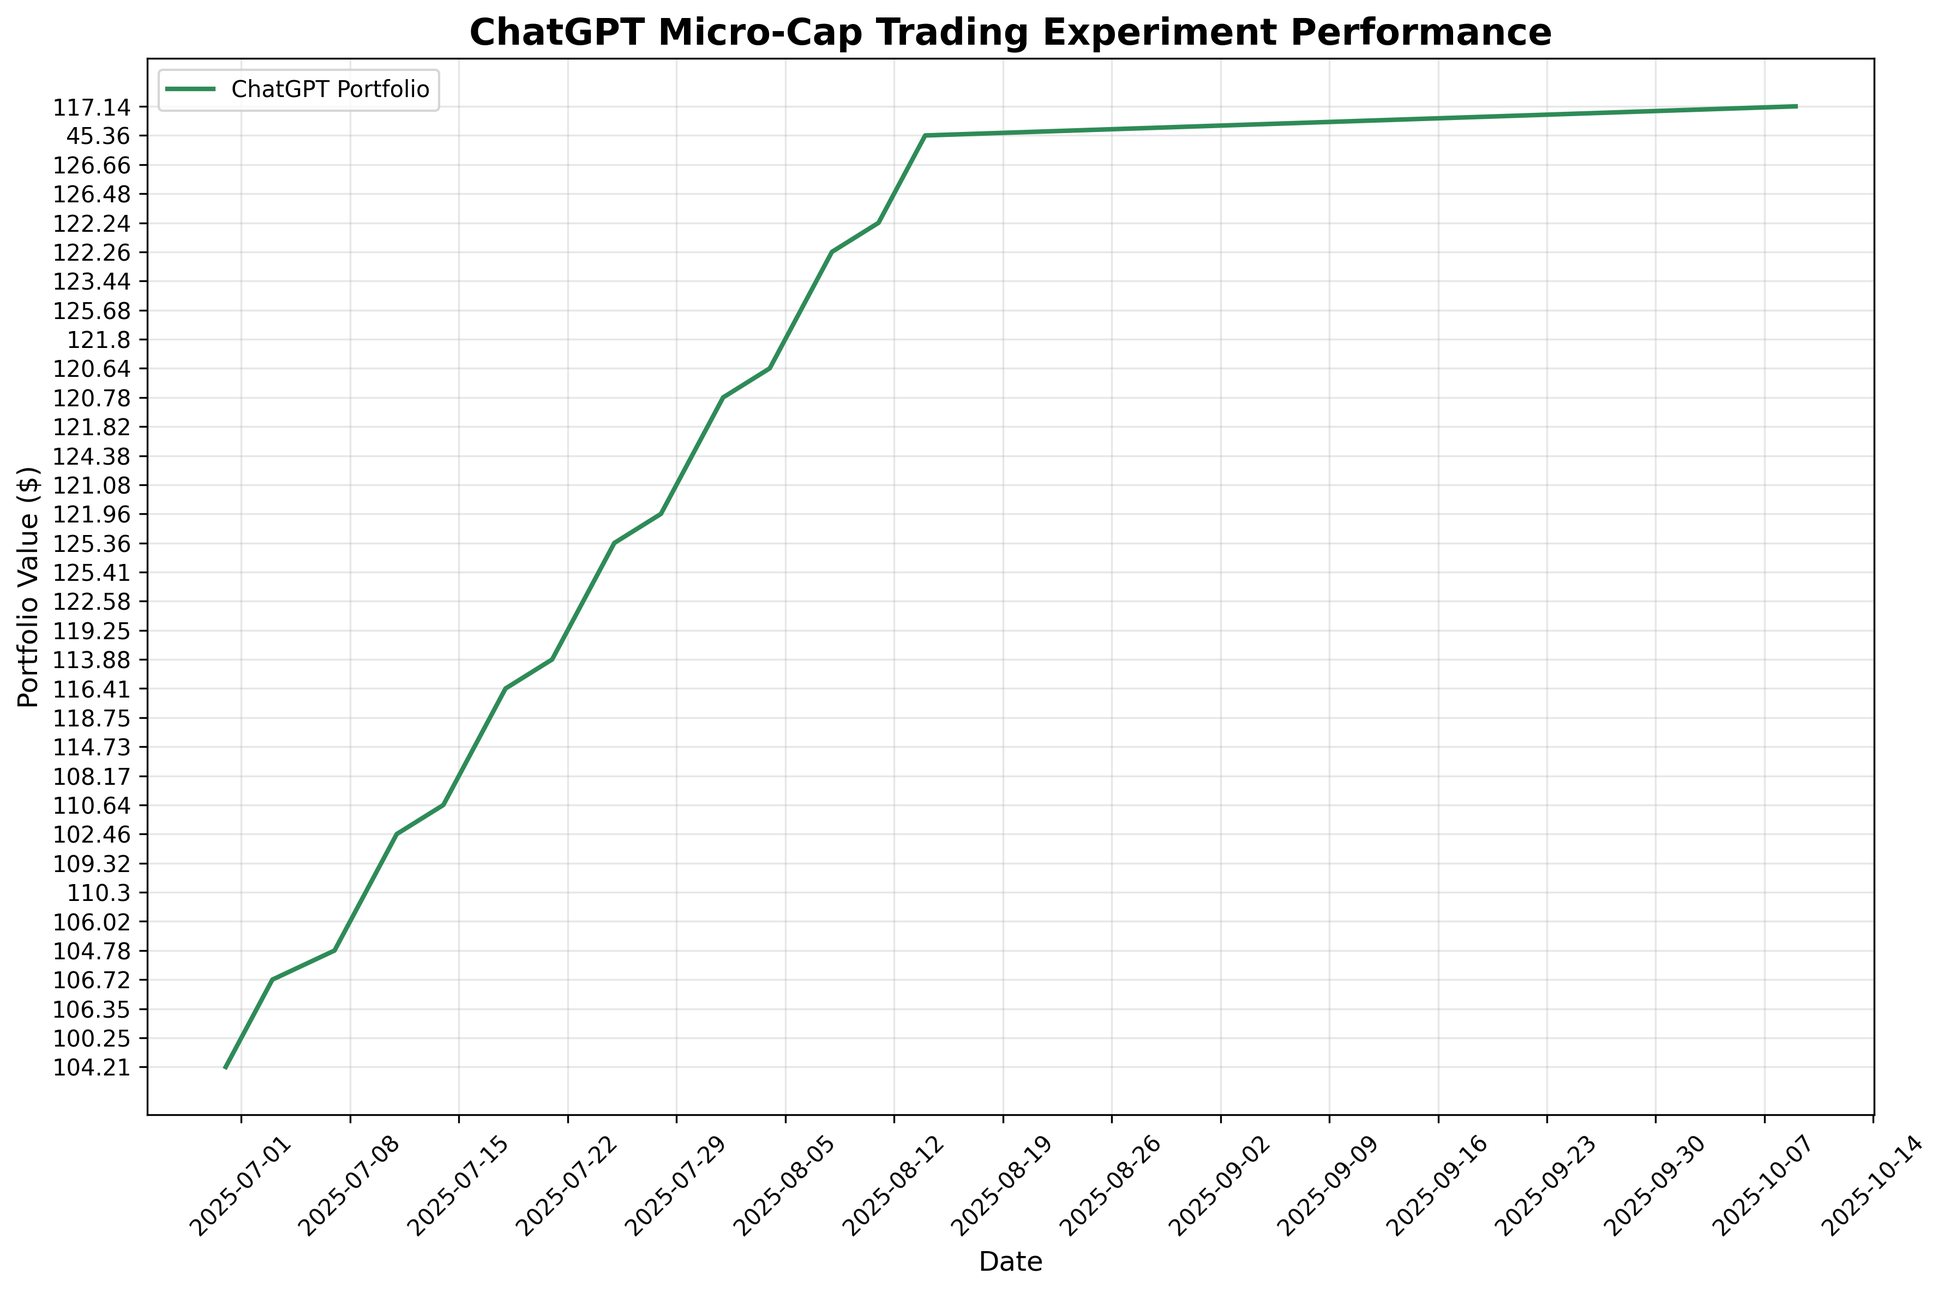
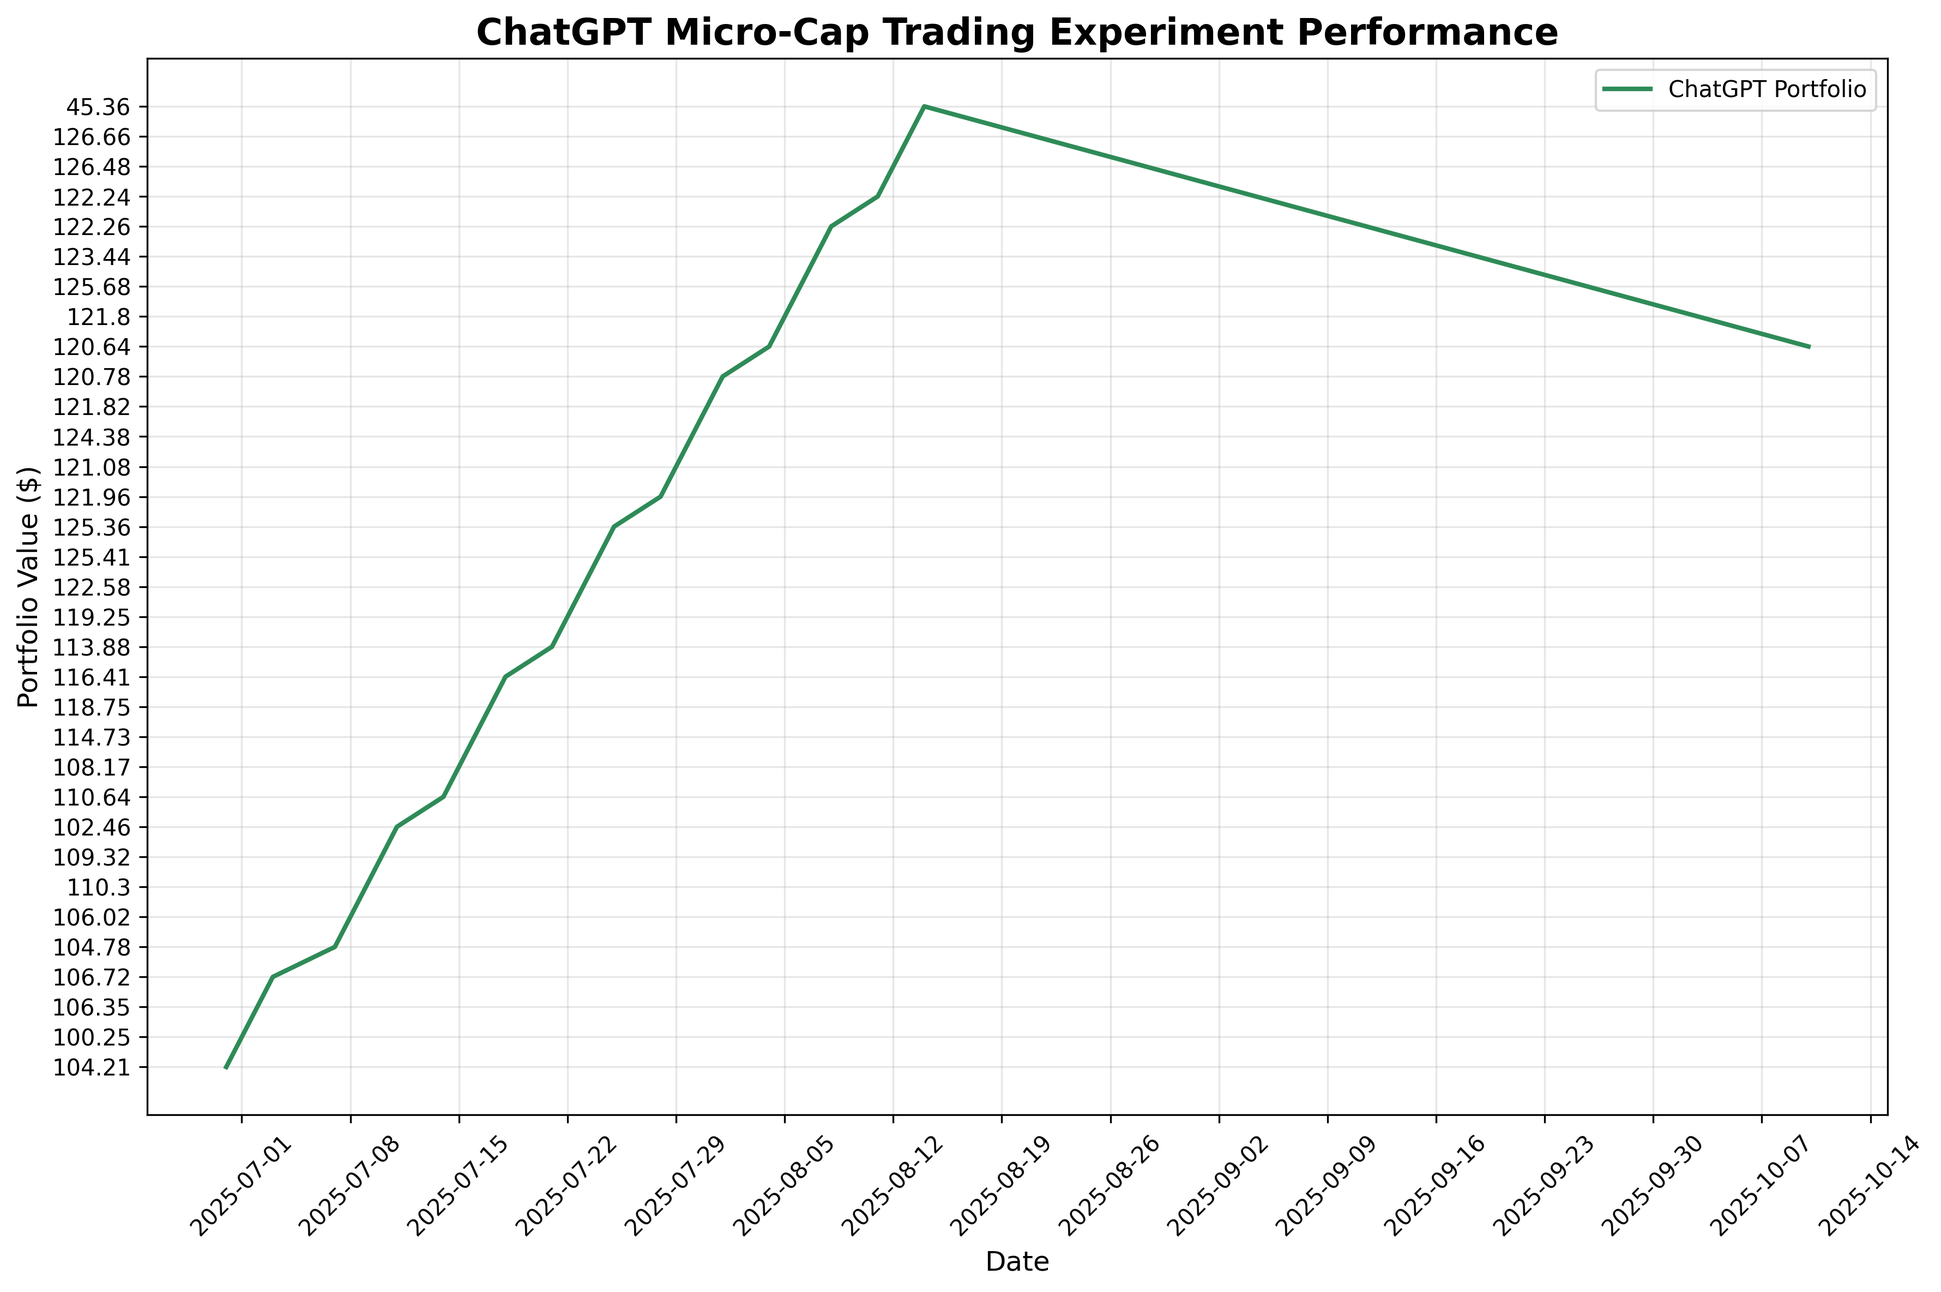
deploy: e15cad030d70fb3fbb51f9df6e22fa70c2f175c0

diff --git a/index.html b/index.html
@@ -105,7 +105,7 @@
                 <div class="stat-label">Total Trades</div>
             </div>
             <div class="stat-card">
-                <div class="stat-value" id="last-updated">2025-10-09</div>
+                <div class="stat-value" id="last-updated">2025-10-10</div>
                 <div class="stat-label">Last Updated</div>
             </div>
         </div>
@@ -160,7 +160,7 @@
     
     <script>
         // Portfolio data
-        const portfolioData = JSON.parse("[{&quot;Date&quot;: &quot;2025-08-11&quot;, &quot;Ticker&quot;: &quot;ABEO&quot;, &quot;Shares&quot;: 4.0, &quot;Buy Price&quot;: 5.77, &quot;Cost Basis&quot;: 23.08, &quot;Stop Loss&quot;: 4.9, &quot;Current Price&quot;: 6.28, &quot;Total Value&quot;: 25.12, &quot;PnL&quot;: 2.04, &quot;Action&quot;: &quot;HOLD&quot;, &quot;Cash Balance&quot;: NaN, &quot;Total Equity&quot;: NaN}, {&quot;Date&quot;: &quot;2025-08-11&quot;, &quot;Ticker&quot;: &quot;ACTU&quot;, &quot;Shares&quot;: 6.0, &quot;Buy Price&quot;: 5.75, &quot;Cost Basis&quot;: 34.5, &quot;Stop Loss&quot;: 4.89, &quot;Current Price&quot;: 8.01, &quot;Total Value&quot;: 48.06, &quot;PnL&quot;: 13.56, &quot;Action&quot;: &quot;HOLD&quot;, &quot;Cash Balance&quot;: NaN, &quot;Total Equity&quot;: NaN}, {&quot;Date&quot;: &quot;2025-08-11&quot;, &quot;Ticker&quot;: &quot;ESPR&quot;, &quot;Shares&quot;: 2.0, &quot;Buy Price&quot;: 1.91, &quot;Cost Basis&quot;: 3.82, &quot;Stop Loss&quot;: 1.6, &quot;Current Price&quot;: 1.85, &quot;Total Value&quot;: 3.7, &quot;PnL&quot;: -0.12, &quot;Action&quot;: &quot;HOLD&quot;, &quot;Cash Balance&quot;: NaN, &quot;Total Equity&quot;: NaN}, {&quot;Date&quot;: &quot;2025-08-11&quot;, &quot;Ticker&quot;: &quot;TOTAL&quot;, &quot;Shares&quot;: NaN, &quot;Buy Price&quot;: NaN, &quot;Cost Basis&quot;: NaN, &quot;Stop Loss&quot;: NaN, &quot;Current Price&quot;: NaN, &quot;Total Value&quot;: 76.88, &quot;PnL&quot;: 15.48, &quot;Action&quot;: NaN, &quot;Cash Balance&quot;: 45.36, &quot;Total Equity&quot;: &quot;122.24&quot;}, {&quot;Date&quot;: &quot;2025-08-12&quot;, &quot;Ticker&quot;: &quot;ABEO&quot;, &quot;Shares&quot;: 4.0, &quot;Buy Price&quot;: 5.77, &quot;Cost Basis&quot;: 23.08, &quot;Stop Loss&quot;: 4.9, &quot;Current Price&quot;: 6.38, &quot;Total Value&quot;: 25.52, &quot;PnL&quot;: 2.44, &quot;Action&quot;: &quot;HOLD&quot;, &quot;Cash Balance&quot;: NaN, &quot;Total Equity&quot;: NaN}, {&quot;Date&quot;: &quot;2025-08-12&quot;, &quot;Ticker&quot;: &quot;ACTU&quot;, &quot;Shares&quot;: 6.0, &quot;Buy Price&quot;: 5.75, &quot;Cost Basis&quot;: 34.5, &quot;Stop Loss&quot;: 4.89, &quot;Current Price&quot;: 8.67, &quot;Total Value&quot;: 52.02, &quot;PnL&quot;: 17.52, &quot;Action&quot;: &quot;HOLD&quot;, &quot;Cash Balance&quot;: NaN, &quot;Total Equity&quot;: NaN}, {&quot;Date&quot;: &quot;2025-08-12&quot;, &quot;Ticker&quot;: &quot;ESPR&quot;, &quot;Shares&quot;: 2.0, &quot;Buy Price&quot;: 1.91, &quot;Cost Basis&quot;: 3.82, &quot;Stop Loss&quot;: 1.6, &quot;Current Price&quot;: 1.79, &quot;Total Value&quot;: 3.58, &quot;PnL&quot;: -0.24, &quot;Action&quot;: &quot;HOLD&quot;, &quot;Cash Balance&quot;: NaN, &quot;Total Equity&quot;: NaN}, {&quot;Date&quot;: &quot;2025-08-12&quot;, &quot;Ticker&quot;: &quot;TOTAL&quot;, &quot;Shares&quot;: NaN, &quot;Buy Price&quot;: NaN, &quot;Cost Basis&quot;: NaN, &quot;Stop Loss&quot;: NaN, &quot;Current Price&quot;: NaN, &quot;Total Value&quot;: 81.12, &quot;PnL&quot;: 19.72, &quot;Action&quot;: NaN, &quot;Cash Balance&quot;: 45.36, &quot;Total Equity&quot;: &quot;126.48&quot;}, {&quot;Date&quot;: &quot;2025-08-13&quot;, &quot;Ticker&quot;: &quot;ABEO&quot;, &quot;Shares&quot;: 4.0, &quot;Buy Price&quot;: 5.77, &quot;Cost Basis&quot;: 23.08, &quot;Stop Loss&quot;: 4.9, &quot;Current Price&quot;: 6.56, &quot;Total Value&quot;: 26.24, &quot;PnL&quot;: 3.16, &quot;Action&quot;: &quot;HOLD&quot;, &quot;Cash Balance&quot;: NaN, &quot;Total Equity&quot;: NaN}, {&quot;Date&quot;: &quot;2025-08-13&quot;, &quot;Ticker&quot;: &quot;ACTU&quot;, &quot;Shares&quot;: 6.0, &quot;Buy Price&quot;: 5.75, &quot;Cost Basis&quot;: 34.5, &quot;Stop Loss&quot;: 4.89, &quot;Current Price&quot;: 8.53, &quot;Total Value&quot;: 51.18, &quot;PnL&quot;: 16.68, &quot;Action&quot;: &quot;HOLD&quot;, &quot;Cash Balance&quot;: NaN, &quot;Total Equity&quot;: NaN}, {&quot;Date&quot;: &quot;2025-08-13&quot;, &quot;Ticker&quot;: &quot;ESPR&quot;, &quot;Shares&quot;: 2.0, &quot;Buy Price&quot;: 1.91, &quot;Cost Basis&quot;: 3.82, &quot;Stop Loss&quot;: 1.6, &quot;Current Price&quot;: 1.94, &quot;Total Value&quot;: 3.88, &quot;PnL&quot;: 0.06, &quot;Action&quot;: &quot;HOLD&quot;, &quot;Cash Balance&quot;: NaN, &quot;Total Equity&quot;: NaN}, {&quot;Date&quot;: &quot;2025-08-13&quot;, &quot;Ticker&quot;: &quot;TOTAL&quot;, &quot;Shares&quot;: NaN, &quot;Buy Price&quot;: NaN, &quot;Cost Basis&quot;: NaN, &quot;Stop Loss&quot;: NaN, &quot;Current Price&quot;: NaN, &quot;Total Value&quot;: 81.3, &quot;PnL&quot;: 19.9, &quot;Action&quot;: NaN, &quot;Cash Balance&quot;: 45.36, &quot;Total Equity&quot;: &quot;126.66&quot;}, {&quot;Date&quot;: &quot;2025-08-14&quot;, &quot;Ticker&quot;: &quot;ABEO&quot;, &quot;Shares&quot;: 4.0, &quot;Buy Price&quot;: 5.77, &quot;Cost Basis&quot;: 23.08, &quot;Stop Loss&quot;: 4.9, &quot;Current Price&quot;: NaN, &quot;Total Value&quot;: NaN, &quot;PnL&quot;: NaN, &quot;Action&quot;: &quot;NO DATA&quot;, &quot;Cash Balance&quot;: NaN, &quot;Total Equity&quot;: NaN}, {&quot;Date&quot;: &quot;2025-08-14&quot;, &quot;Ticker&quot;: &quot;ACTU&quot;, &quot;Shares&quot;: 6.0, &quot;Buy Price&quot;: 5.75, &quot;Cost Basis&quot;: 34.5, &quot;Stop Loss&quot;: 4.89, &quot;Current Price&quot;: NaN, &quot;Total Value&quot;: NaN, &quot;PnL&quot;: NaN, &quot;Action&quot;: &quot;NO DATA&quot;, &quot;Cash Balance&quot;: NaN, &quot;Total Equity&quot;: NaN}, {&quot;Date&quot;: &quot;2025-08-14&quot;, &quot;Ticker&quot;: &quot;ESPR&quot;, &quot;Shares&quot;: 2.0, &quot;Buy Price&quot;: 1.91, &quot;Cost Basis&quot;: 3.82, &quot;Stop Loss&quot;: 1.6, &quot;Current Price&quot;: NaN, &quot;Total Value&quot;: NaN, &quot;PnL&quot;: NaN, &quot;Action&quot;: &quot;NO DATA&quot;, &quot;Cash Balance&quot;: NaN, &quot;Total Equity&quot;: NaN}, {&quot;Date&quot;: &quot;2025-08-14&quot;, &quot;Ticker&quot;: &quot;TOTAL&quot;, &quot;Shares&quot;: NaN, &quot;Buy Price&quot;: NaN, &quot;Cost Basis&quot;: NaN, &quot;Stop Loss&quot;: NaN, &quot;Current Price&quot;: NaN, &quot;Total Value&quot;: 0.0, &quot;PnL&quot;: 0.0, &quot;Action&quot;: NaN, &quot;Cash Balance&quot;: 45.36, &quot;Total Equity&quot;: &quot;45.36&quot;}, {&quot;Date&quot;: &quot;2025-10-09&quot;, &quot;Ticker&quot;: &quot;ABEO&quot;, &quot;Shares&quot;: 4.0, &quot;Buy Price&quot;: 5.77, &quot;Cost Basis&quot;: 23.08, &quot;Stop Loss&quot;: 4.9, &quot;Current Price&quot;: 5.58, &quot;Total Value&quot;: 22.32, &quot;PnL&quot;: -0.76, &quot;Action&quot;: &quot;HOLD&quot;, &quot;Cash Balance&quot;: NaN, &quot;Total Equity&quot;: NaN}, {&quot;Date&quot;: &quot;2025-10-09&quot;, &quot;Ticker&quot;: &quot;ACTU&quot;, &quot;Shares&quot;: 6.0, &quot;Buy Price&quot;: 5.75, &quot;Cost Basis&quot;: 34.5, &quot;Stop Loss&quot;: 4.89, &quot;Current Price&quot;: 7.39, &quot;Total Value&quot;: 44.34, &quot;PnL&quot;: 9.84, &quot;Action&quot;: &quot;HOLD&quot;, &quot;Cash Balance&quot;: NaN, &quot;Total Equity&quot;: NaN}, {&quot;Date&quot;: &quot;2025-10-09&quot;, &quot;Ticker&quot;: &quot;ESPR&quot;, &quot;Shares&quot;: 2.0, &quot;Buy Price&quot;: 1.91, &quot;Cost Basis&quot;: 3.82, &quot;Stop Loss&quot;: 1.6, &quot;Current Price&quot;: 2.56, &quot;Total Value&quot;: 5.12, &quot;PnL&quot;: 1.3, &quot;Action&quot;: &quot;HOLD&quot;, &quot;Cash Balance&quot;: NaN, &quot;Total Equity&quot;: NaN}, {&quot;Date&quot;: &quot;2025-10-09&quot;, &quot;Ticker&quot;: &quot;TOTAL&quot;, &quot;Shares&quot;: NaN, &quot;Buy Price&quot;: NaN, &quot;Cost Basis&quot;: NaN, &quot;Stop Loss&quot;: NaN, &quot;Current Price&quot;: NaN, &quot;Total Value&quot;: 71.78, &quot;PnL&quot;: 10.38, &quot;Action&quot;: NaN, &quot;Cash Balance&quot;: 45.36, &quot;Total Equity&quot;: &quot;117.14&quot;}]");
+        const portfolioData = JSON.parse("[{&quot;Date&quot;: &quot;2025-08-11&quot;, &quot;Ticker&quot;: &quot;ABEO&quot;, &quot;Shares&quot;: 4.0, &quot;Buy Price&quot;: 5.77, &quot;Cost Basis&quot;: 23.08, &quot;Stop Loss&quot;: 4.9, &quot;Current Price&quot;: 6.28, &quot;Total Value&quot;: 25.12, &quot;PnL&quot;: 2.04, &quot;Action&quot;: &quot;HOLD&quot;, &quot;Cash Balance&quot;: NaN, &quot;Total Equity&quot;: NaN}, {&quot;Date&quot;: &quot;2025-08-11&quot;, &quot;Ticker&quot;: &quot;ACTU&quot;, &quot;Shares&quot;: 6.0, &quot;Buy Price&quot;: 5.75, &quot;Cost Basis&quot;: 34.5, &quot;Stop Loss&quot;: 4.89, &quot;Current Price&quot;: 8.01, &quot;Total Value&quot;: 48.06, &quot;PnL&quot;: 13.56, &quot;Action&quot;: &quot;HOLD&quot;, &quot;Cash Balance&quot;: NaN, &quot;Total Equity&quot;: NaN}, {&quot;Date&quot;: &quot;2025-08-11&quot;, &quot;Ticker&quot;: &quot;ESPR&quot;, &quot;Shares&quot;: 2.0, &quot;Buy Price&quot;: 1.91, &quot;Cost Basis&quot;: 3.82, &quot;Stop Loss&quot;: 1.6, &quot;Current Price&quot;: 1.85, &quot;Total Value&quot;: 3.7, &quot;PnL&quot;: -0.12, &quot;Action&quot;: &quot;HOLD&quot;, &quot;Cash Balance&quot;: NaN, &quot;Total Equity&quot;: NaN}, {&quot;Date&quot;: &quot;2025-08-11&quot;, &quot;Ticker&quot;: &quot;TOTAL&quot;, &quot;Shares&quot;: NaN, &quot;Buy Price&quot;: NaN, &quot;Cost Basis&quot;: NaN, &quot;Stop Loss&quot;: NaN, &quot;Current Price&quot;: NaN, &quot;Total Value&quot;: 76.88, &quot;PnL&quot;: 15.48, &quot;Action&quot;: NaN, &quot;Cash Balance&quot;: 45.36, &quot;Total Equity&quot;: &quot;122.24&quot;}, {&quot;Date&quot;: &quot;2025-08-12&quot;, &quot;Ticker&quot;: &quot;ABEO&quot;, &quot;Shares&quot;: 4.0, &quot;Buy Price&quot;: 5.77, &quot;Cost Basis&quot;: 23.08, &quot;Stop Loss&quot;: 4.9, &quot;Current Price&quot;: 6.38, &quot;Total Value&quot;: 25.52, &quot;PnL&quot;: 2.44, &quot;Action&quot;: &quot;HOLD&quot;, &quot;Cash Balance&quot;: NaN, &quot;Total Equity&quot;: NaN}, {&quot;Date&quot;: &quot;2025-08-12&quot;, &quot;Ticker&quot;: &quot;ACTU&quot;, &quot;Shares&quot;: 6.0, &quot;Buy Price&quot;: 5.75, &quot;Cost Basis&quot;: 34.5, &quot;Stop Loss&quot;: 4.89, &quot;Current Price&quot;: 8.67, &quot;Total Value&quot;: 52.02, &quot;PnL&quot;: 17.52, &quot;Action&quot;: &quot;HOLD&quot;, &quot;Cash Balance&quot;: NaN, &quot;Total Equity&quot;: NaN}, {&quot;Date&quot;: &quot;2025-08-12&quot;, &quot;Ticker&quot;: &quot;ESPR&quot;, &quot;Shares&quot;: 2.0, &quot;Buy Price&quot;: 1.91, &quot;Cost Basis&quot;: 3.82, &quot;Stop Loss&quot;: 1.6, &quot;Current Price&quot;: 1.79, &quot;Total Value&quot;: 3.58, &quot;PnL&quot;: -0.24, &quot;Action&quot;: &quot;HOLD&quot;, &quot;Cash Balance&quot;: NaN, &quot;Total Equity&quot;: NaN}, {&quot;Date&quot;: &quot;2025-08-12&quot;, &quot;Ticker&quot;: &quot;TOTAL&quot;, &quot;Shares&quot;: NaN, &quot;Buy Price&quot;: NaN, &quot;Cost Basis&quot;: NaN, &quot;Stop Loss&quot;: NaN, &quot;Current Price&quot;: NaN, &quot;Total Value&quot;: 81.12, &quot;PnL&quot;: 19.72, &quot;Action&quot;: NaN, &quot;Cash Balance&quot;: 45.36, &quot;Total Equity&quot;: &quot;126.48&quot;}, {&quot;Date&quot;: &quot;2025-08-13&quot;, &quot;Ticker&quot;: &quot;ABEO&quot;, &quot;Shares&quot;: 4.0, &quot;Buy Price&quot;: 5.77, &quot;Cost Basis&quot;: 23.08, &quot;Stop Loss&quot;: 4.9, &quot;Current Price&quot;: 6.56, &quot;Total Value&quot;: 26.24, &quot;PnL&quot;: 3.16, &quot;Action&quot;: &quot;HOLD&quot;, &quot;Cash Balance&quot;: NaN, &quot;Total Equity&quot;: NaN}, {&quot;Date&quot;: &quot;2025-08-13&quot;, &quot;Ticker&quot;: &quot;ACTU&quot;, &quot;Shares&quot;: 6.0, &quot;Buy Price&quot;: 5.75, &quot;Cost Basis&quot;: 34.5, &quot;Stop Loss&quot;: 4.89, &quot;Current Price&quot;: 8.53, &quot;Total Value&quot;: 51.18, &quot;PnL&quot;: 16.68, &quot;Action&quot;: &quot;HOLD&quot;, &quot;Cash Balance&quot;: NaN, &quot;Total Equity&quot;: NaN}, {&quot;Date&quot;: &quot;2025-08-13&quot;, &quot;Ticker&quot;: &quot;ESPR&quot;, &quot;Shares&quot;: 2.0, &quot;Buy Price&quot;: 1.91, &quot;Cost Basis&quot;: 3.82, &quot;Stop Loss&quot;: 1.6, &quot;Current Price&quot;: 1.94, &quot;Total Value&quot;: 3.88, &quot;PnL&quot;: 0.06, &quot;Action&quot;: &quot;HOLD&quot;, &quot;Cash Balance&quot;: NaN, &quot;Total Equity&quot;: NaN}, {&quot;Date&quot;: &quot;2025-08-13&quot;, &quot;Ticker&quot;: &quot;TOTAL&quot;, &quot;Shares&quot;: NaN, &quot;Buy Price&quot;: NaN, &quot;Cost Basis&quot;: NaN, &quot;Stop Loss&quot;: NaN, &quot;Current Price&quot;: NaN, &quot;Total Value&quot;: 81.3, &quot;PnL&quot;: 19.9, &quot;Action&quot;: NaN, &quot;Cash Balance&quot;: 45.36, &quot;Total Equity&quot;: &quot;126.66&quot;}, {&quot;Date&quot;: &quot;2025-08-14&quot;, &quot;Ticker&quot;: &quot;ABEO&quot;, &quot;Shares&quot;: 4.0, &quot;Buy Price&quot;: 5.77, &quot;Cost Basis&quot;: 23.08, &quot;Stop Loss&quot;: 4.9, &quot;Current Price&quot;: NaN, &quot;Total Value&quot;: NaN, &quot;PnL&quot;: NaN, &quot;Action&quot;: &quot;NO DATA&quot;, &quot;Cash Balance&quot;: NaN, &quot;Total Equity&quot;: NaN}, {&quot;Date&quot;: &quot;2025-08-14&quot;, &quot;Ticker&quot;: &quot;ACTU&quot;, &quot;Shares&quot;: 6.0, &quot;Buy Price&quot;: 5.75, &quot;Cost Basis&quot;: 34.5, &quot;Stop Loss&quot;: 4.89, &quot;Current Price&quot;: NaN, &quot;Total Value&quot;: NaN, &quot;PnL&quot;: NaN, &quot;Action&quot;: &quot;NO DATA&quot;, &quot;Cash Balance&quot;: NaN, &quot;Total Equity&quot;: NaN}, {&quot;Date&quot;: &quot;2025-08-14&quot;, &quot;Ticker&quot;: &quot;ESPR&quot;, &quot;Shares&quot;: 2.0, &quot;Buy Price&quot;: 1.91, &quot;Cost Basis&quot;: 3.82, &quot;Stop Loss&quot;: 1.6, &quot;Current Price&quot;: NaN, &quot;Total Value&quot;: NaN, &quot;PnL&quot;: NaN, &quot;Action&quot;: &quot;NO DATA&quot;, &quot;Cash Balance&quot;: NaN, &quot;Total Equity&quot;: NaN}, {&quot;Date&quot;: &quot;2025-08-14&quot;, &quot;Ticker&quot;: &quot;TOTAL&quot;, &quot;Shares&quot;: NaN, &quot;Buy Price&quot;: NaN, &quot;Cost Basis&quot;: NaN, &quot;Stop Loss&quot;: NaN, &quot;Current Price&quot;: NaN, &quot;Total Value&quot;: 0.0, &quot;PnL&quot;: 0.0, &quot;Action&quot;: NaN, &quot;Cash Balance&quot;: 45.36, &quot;Total Equity&quot;: &quot;45.36&quot;}, {&quot;Date&quot;: &quot;2025-10-10&quot;, &quot;Ticker&quot;: &quot;ABEO&quot;, &quot;Shares&quot;: 4.0, &quot;Buy Price&quot;: 5.77, &quot;Cost Basis&quot;: 23.08, &quot;Stop Loss&quot;: 4.9, &quot;Current Price&quot;: 5.45, &quot;Total Value&quot;: 21.8, &quot;PnL&quot;: -1.28, &quot;Action&quot;: &quot;HOLD&quot;, &quot;Cash Balance&quot;: NaN, &quot;Total Equity&quot;: NaN}, {&quot;Date&quot;: &quot;2025-10-10&quot;, &quot;Ticker&quot;: &quot;ACTU&quot;, &quot;Shares&quot;: 6.0, &quot;Buy Price&quot;: 5.75, &quot;Cost Basis&quot;: 34.5, &quot;Stop Loss&quot;: 4.89, &quot;Current Price&quot;: 8.07, &quot;Total Value&quot;: 48.42, &quot;PnL&quot;: 13.92, &quot;Action&quot;: &quot;HOLD&quot;, &quot;Cash Balance&quot;: NaN, &quot;Total Equity&quot;: NaN}, {&quot;Date&quot;: &quot;2025-10-10&quot;, &quot;Ticker&quot;: &quot;ESPR&quot;, &quot;Shares&quot;: 2.0, &quot;Buy Price&quot;: 1.91, &quot;Cost Basis&quot;: 3.82, &quot;Stop Loss&quot;: 1.6, &quot;Current Price&quot;: 2.53, &quot;Total Value&quot;: 5.06, &quot;PnL&quot;: 1.24, &quot;Action&quot;: &quot;HOLD&quot;, &quot;Cash Balance&quot;: NaN, &quot;Total Equity&quot;: NaN}, {&quot;Date&quot;: &quot;2025-10-10&quot;, &quot;Ticker&quot;: &quot;TOTAL&quot;, &quot;Shares&quot;: NaN, &quot;Buy Price&quot;: NaN, &quot;Cost Basis&quot;: NaN, &quot;Stop Loss&quot;: NaN, &quot;Current Price&quot;: NaN, &quot;Total Value&quot;: 75.28, &quot;PnL&quot;: 13.88, &quot;Action&quot;: NaN, &quot;Cash Balance&quot;: 45.36, &quot;Total Equity&quot;: &quot;120.64&quot;}]");
         const tradeData = JSON.parse("[{&quot;Date&quot;: &quot;2025-07-07&quot;, &quot;Ticker&quot;: &quot;CSAI&quot;, &quot;Shares Bought&quot;: NaN, &quot;Buy Price&quot;: NaN, &quot;Cost Basis&quot;: 1.9, &quot;PnL&quot;: 5.7, &quot;Reason&quot;: &quot;MANUAL SELL - Rotated into AZTR&quot;, &quot;Shares Sold&quot;: 15.0, &quot;Sell Price&quot;: 2.28}, {&quot;Date&quot;: &quot;2025-07-08&quot;, &quot;Ticker&quot;: &quot;IINN&quot;, &quot;Shares Bought&quot;: 20.0, &quot;Buy Price&quot;: 1.5, &quot;Cost Basis&quot;: 30.0, &quot;PnL&quot;: 0.0, &quot;Reason&quot;: &quot;MANUAL BUY - New position&quot;, &quot;Shares Sold&quot;: NaN, &quot;Sell Price&quot;: NaN}, {&quot;Date&quot;: &quot;2025-07-21&quot;, &quot;Ticker&quot;: &quot;CADL&quot;, &quot;Shares Bought&quot;: NaN, &quot;Buy Price&quot;: NaN, &quot;Cost Basis&quot;: 25.2, &quot;PnL&quot;: 8.5, &quot;Reason&quot;: &quot;MANUAL SELL - GAIN CAPITAL FOR ACTU&quot;, &quot;Shares Sold&quot;: 5.0, &quot;Sell Price&quot;: 6.59}, {&quot;Date&quot;: &quot;2025-07-21&quot;, &quot;Ticker&quot;: &quot;ACTU&quot;, &quot;Shares Bought&quot;: 6.0, &quot;Buy Price&quot;: 5.75, &quot;Cost Basis&quot;: 34.5, &quot;PnL&quot;: 0.0, &quot;Reason&quot;: &quot;MANUAL BUY - New position&quot;, &quot;Shares Sold&quot;: NaN, &quot;Sell Price&quot;: NaN}, {&quot;Date&quot;: &quot;2025-07-28&quot;, &quot;Ticker&quot;: &quot;IINN&quot;, &quot;Shares Bought&quot;: NaN, &quot;Buy Price&quot;: NaN, &quot;Cost Basis&quot;: 9.0, &quot;PnL&quot;: -0.5400000000000009, &quot;Reason&quot;: &quot;MANUAL SELL - POSITION REDUCTION&quot;, &quot;Shares Sold&quot;: 6.0, &quot;Sell Price&quot;: 1.41}, {&quot;Date&quot;: &quot;2025-07-29&quot;, &quot;Ticker&quot;: &quot;AZTR&quot;, &quot;Shares Bought&quot;: NaN, &quot;Buy Price&quot;: NaN, &quot;Cost Basis&quot;: 13.75, &quot;PnL&quot;: -2.75, &quot;Reason&quot;: &quot;MANUAL SELL - DILUTION RISK&quot;, &quot;Shares Sold&quot;: 55.0, &quot;Sell Price&quot;: 0.2}, {&quot;Date&quot;: &quot;2025-08-01&quot;, &quot;Ticker&quot;: &quot;IINN&quot;, &quot;Shares Bought&quot;: 2.0, &quot;Buy Price&quot;: 1.74, &quot;Cost Basis&quot;: 3.48, &quot;PnL&quot;: 0.0, &quot;Reason&quot;: &quot;MANUAL BUY - New position&quot;, &quot;Shares Sold&quot;: NaN, &quot;Sell Price&quot;: NaN}, {&quot;Date&quot;: &quot;2025-08-01&quot;, &quot;Ticker&quot;: &quot;ABEO&quot;, &quot;Shares Bought&quot;: NaN, &quot;Buy Price&quot;: NaN, &quot;Cost Basis&quot;: 11.54, &quot;PnL&quot;: 1.200000000000001, &quot;Reason&quot;: &quot;MANUAL SELL - TRIM AFTER SUPPORT LOSS&quot;, &quot;Shares Sold&quot;: 2.0, &quot;Sell Price&quot;: 6.37}, {&quot;Date&quot;: &quot;2025-08-07&quot;, &quot;Ticker&quot;: &quot;ESPR&quot;, &quot;Shares Bought&quot;: 2.0, &quot;Buy Price&quot;: 1.91, &quot;Cost Basis&quot;: 3.82, &quot;PnL&quot;: 0.0, &quot;Reason&quot;: &quot;MANUAL BUY - New position&quot;, &quot;Shares Sold&quot;: NaN, &quot;Sell Price&quot;: NaN}, {&quot;Date&quot;: &quot;2025-08-08&quot;, &quot;Ticker&quot;: &quot;IINN&quot;, &quot;Shares Bought&quot;: NaN, &quot;Buy Price&quot;: NaN, &quot;Cost Basis&quot;: 1.5, &quot;PnL&quot;: -6.4, &quot;Reason&quot;: &quot;AUTOMATED SELL - STOPLOSS TRIGGERED&quot;, &quot;Shares Sold&quot;: 16.0, &quot;Sell Price&quot;: 1.1}]");
         
         // Update total equity
